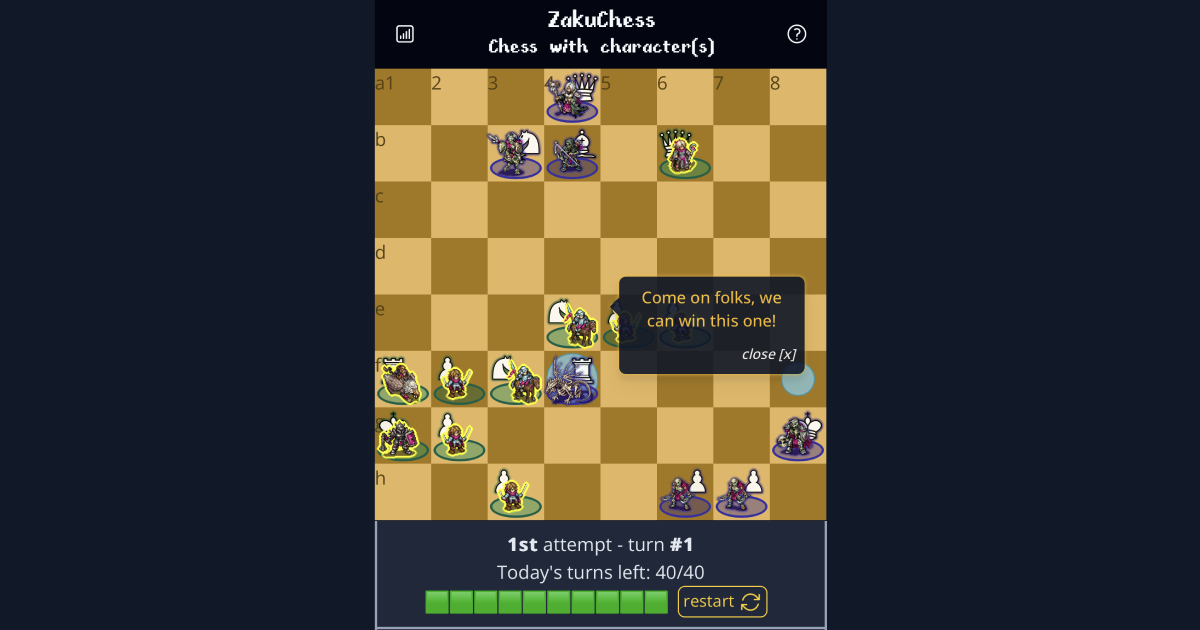
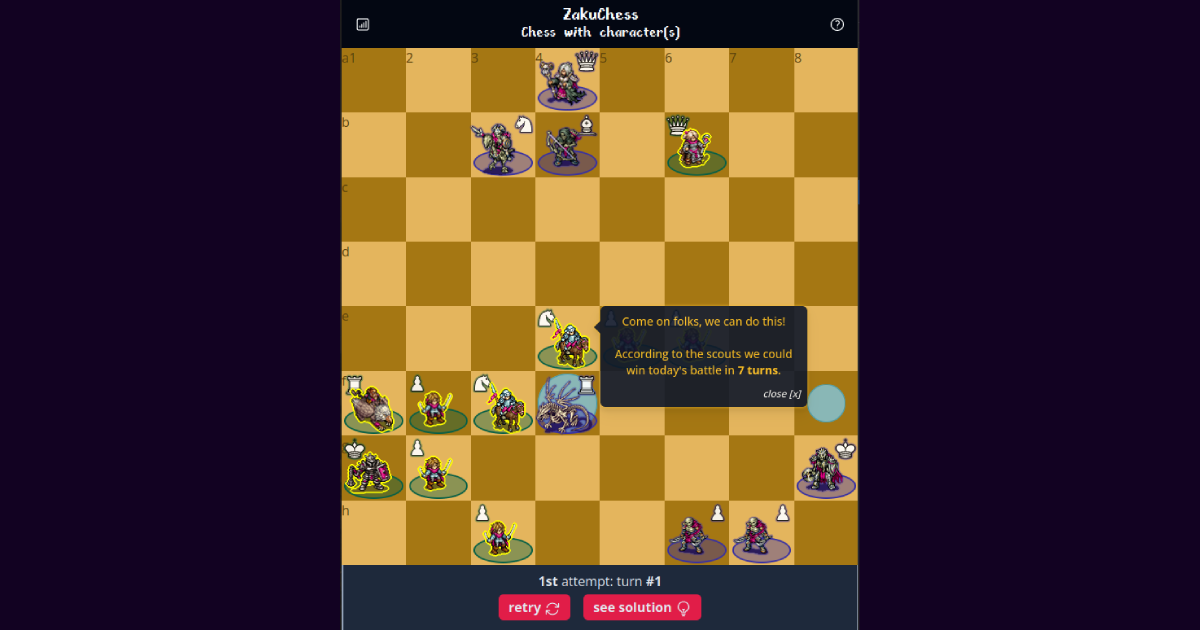
[UI] Update the OG preview

diff --git a/src/apps/daily_challenge/business_logic/_get_speech_bubble.py b/src/apps/daily_challenge/business_logic/_get_speech_bubble.py
@@ -69,7 +69,7 @@ def get_speech_bubble(
             return None
         text = (
             game_presenter.challenge.intro_turn_speech_text
-            or "Come on folks, we can win this one!"
+            or "Come on folks, we can do this!"
         )
         text = raw(
             text + "<br><br>"
@@ -80,7 +80,6 @@ def get_speech_bubble(
         return SpeechBubbleData(
             text=text,
             square=game_presenter.challenge.intro_turn_speech_square,
-            time_out=15,
         )
 
     if game_presenter.is_bot_move and game_presenter.captured_piece_role:

diff --git a/src/apps/chess/components/misc_ui.py b/src/apps/chess/components/misc_ui.py
@@ -114,7 +114,7 @@ def speech_bubble(
         "-top-10",
         "left-10" if relative_position == "right" else "right-10",
         # Size:
-        "w-40",
+        "max-w-[40%]",
         "p-2 ",
         # Cosmetics:
         _SPEECH_BUBBLE_BACKGROUND_COLOR[0],
@@ -189,6 +189,7 @@ def speech_bubble(
 
     outer_classes = [
         "absolute",
+        "w-full",  # so the inner content can be sized with a relative width
         "drop-shadow-lg",
         "opacity-90",
         *square_to_square_center_tailwind_classes(square),
